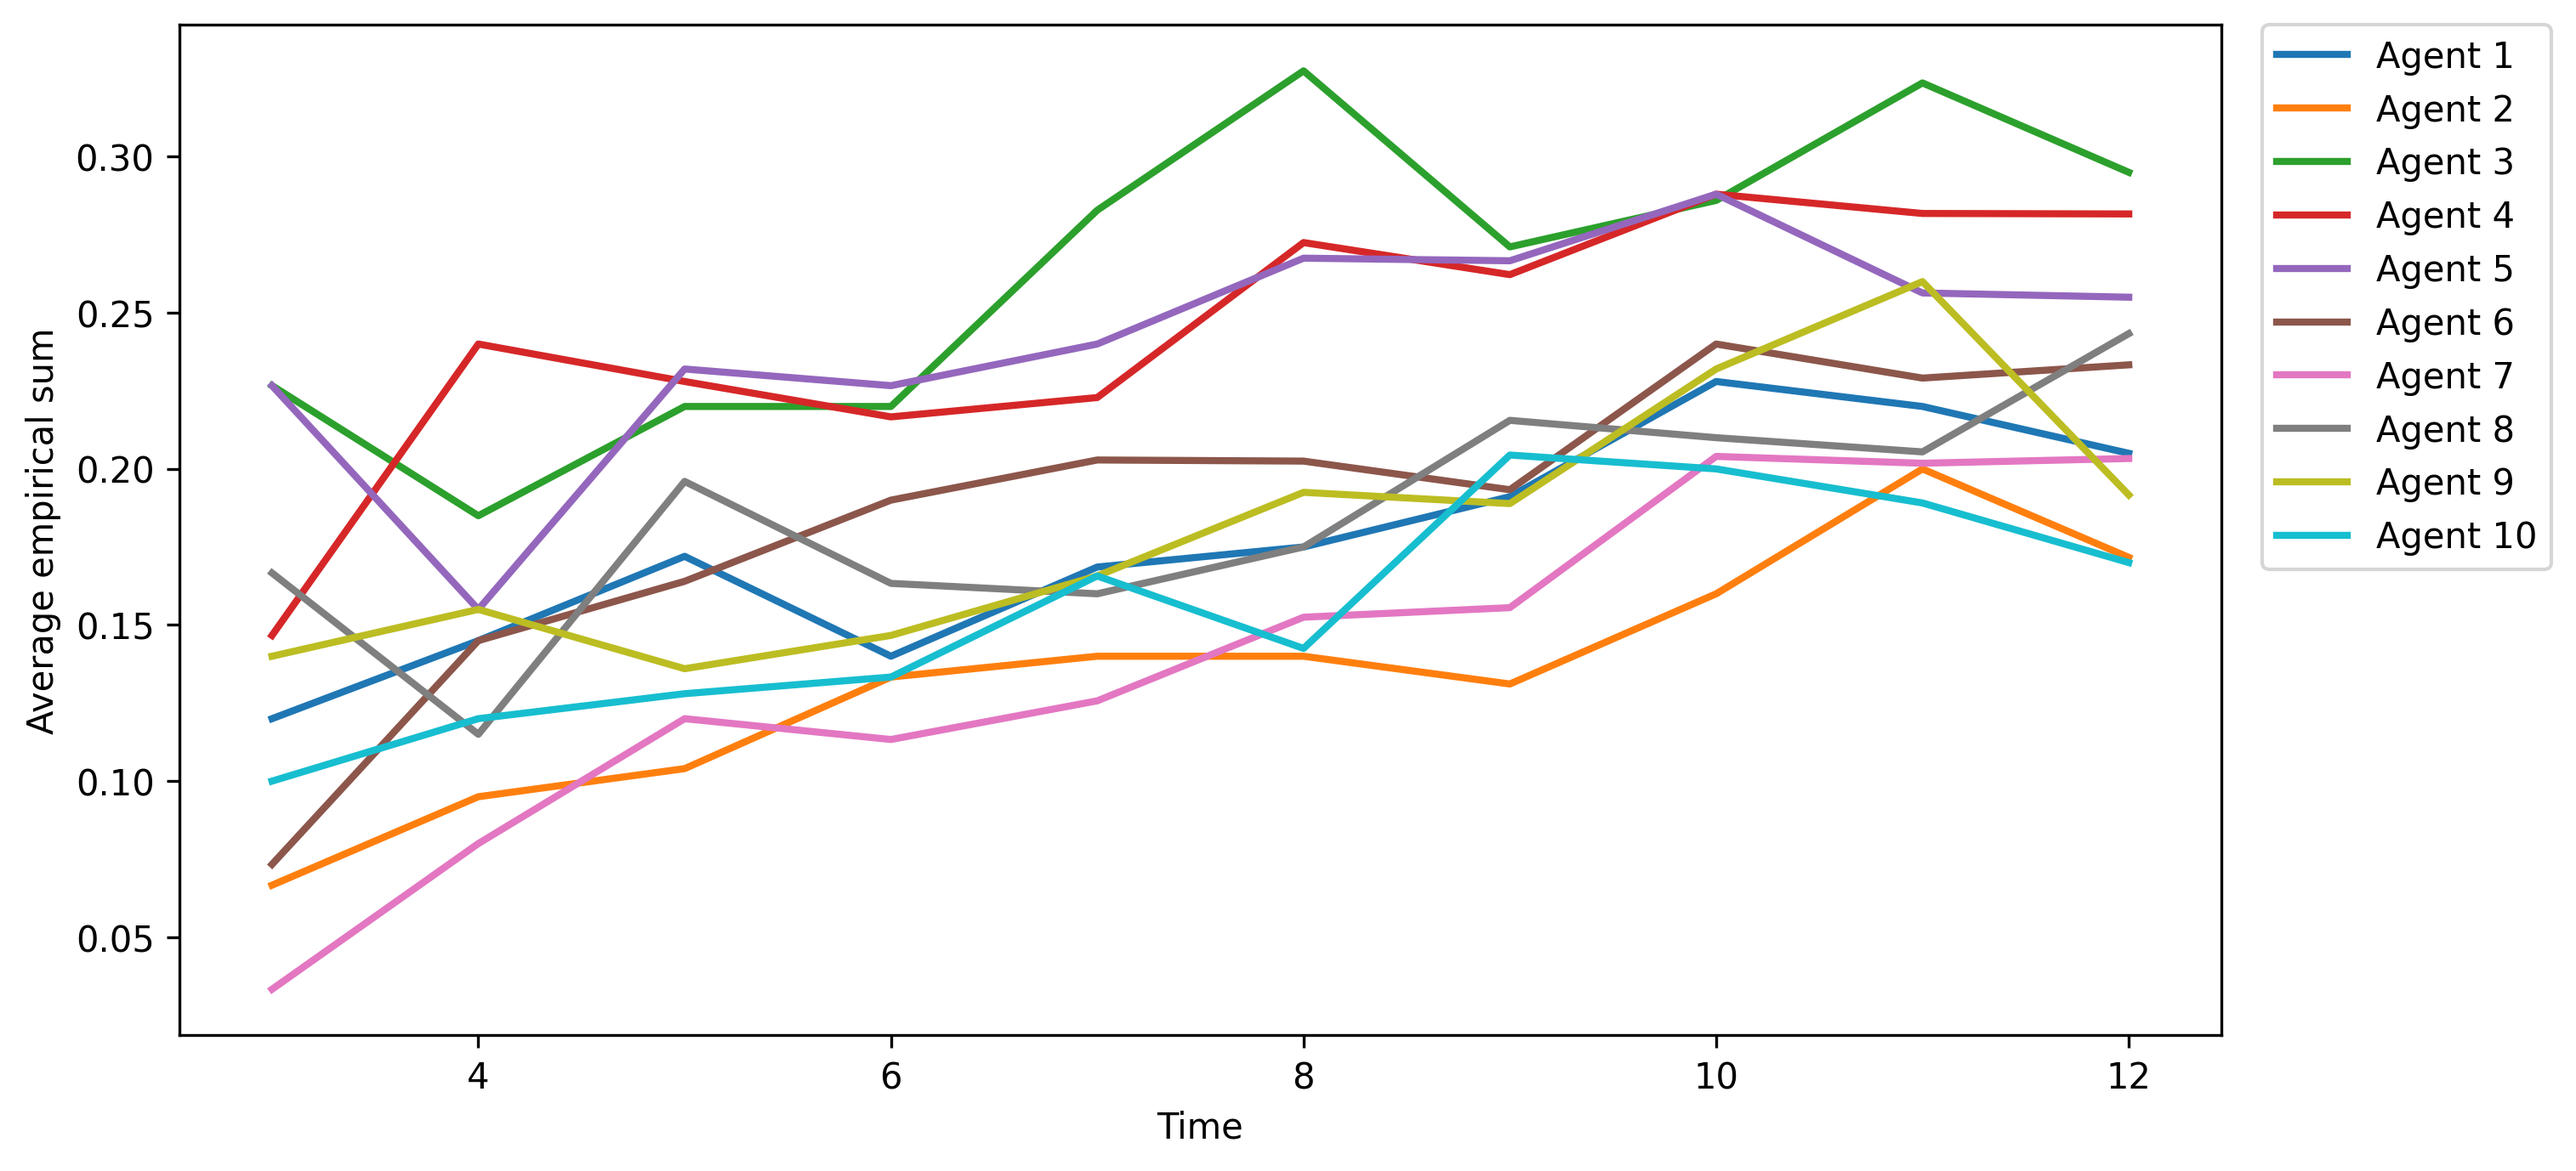
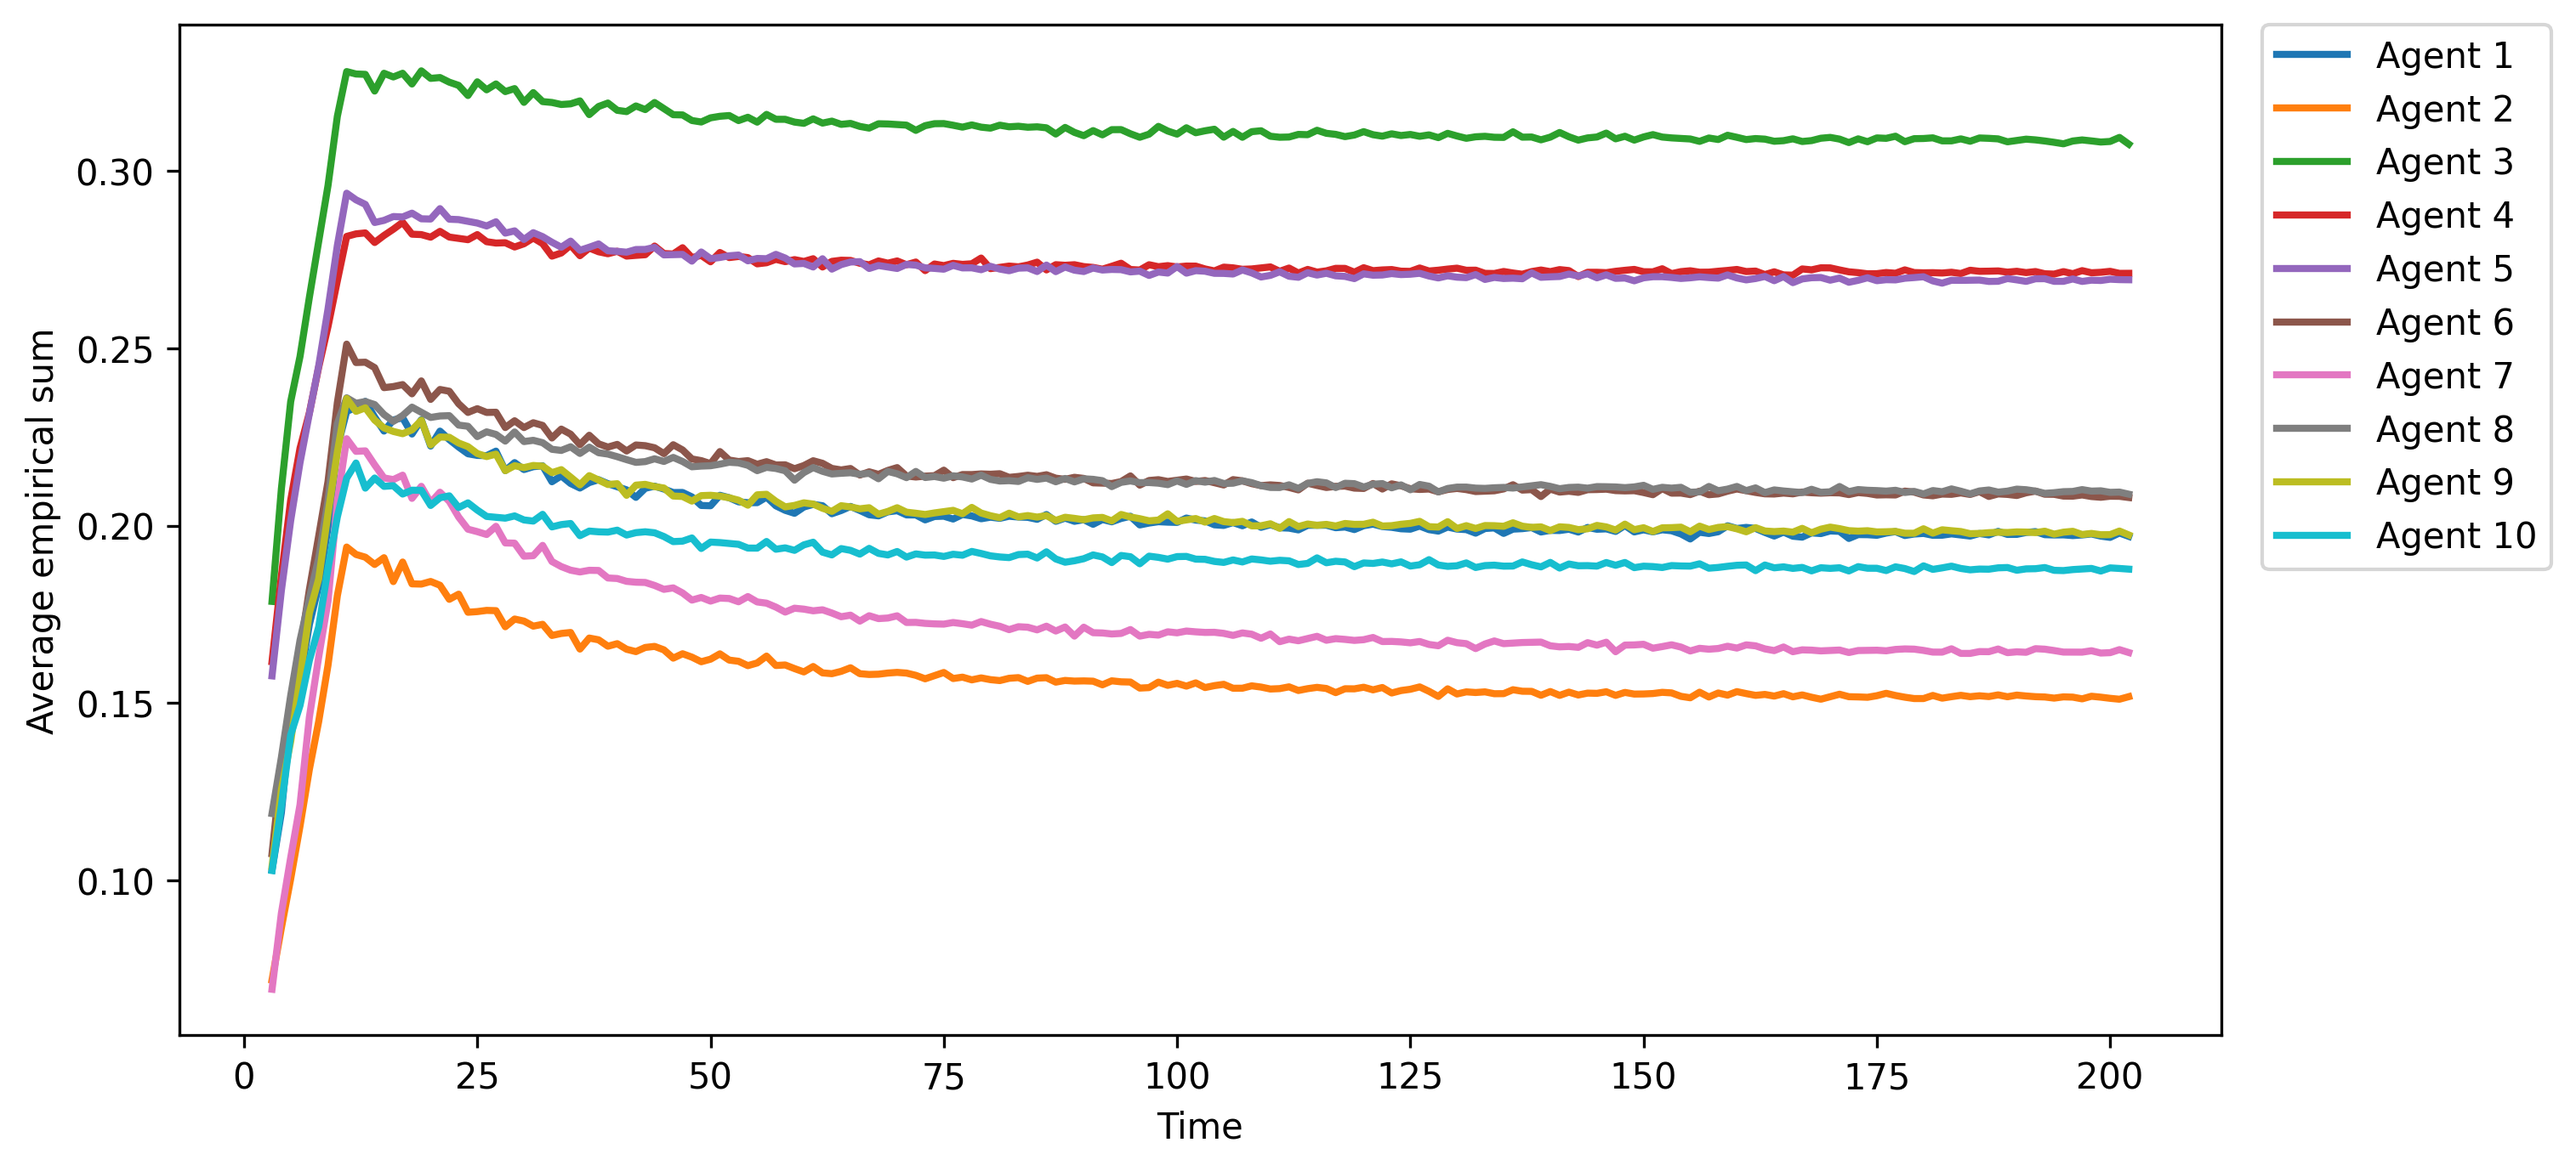
added bot simulation

diff --git a/src/models/od_model.py b/src/models/od_model.py
@@ -259,3 +259,149 @@ def simulate_trajectory(
 
     return X_history, Z_history
 
+def simulate_trajectory_bot(
+    N,
+    horizon,
+    T,
+    L,
+    A,
+    c1,
+    c2,
+    memory_sets,
+    beta=0.20,
+    eta=0.8,
+    rng=None,
+):
+    """
+    Simulate one trajectory of the opinion dynamics model.
+
+    Parameters
+    ----------
+    N : int
+        Number of nodes.
+
+    horizon : int
+        Final simulation time.
+
+    T : int
+        Time at which memory activates.
+
+    L : int
+        Memory depth.
+
+    A : ndarray
+        Row-stochastic interaction matrix.
+
+    c1 : ndarray
+        Drift vector.
+
+    c2 : ndarray
+        Scaling vector.
+
+    memory_sets : list
+        List of memory indicator matrices.
+
+    beta : bot weight
+    eta  : bot strength
+
+    rng : numpy random generator
+        Random number generator.
+
+    Returns
+    -------
+    X_history : list
+        bias matrices over time.
+
+    Z_history : list
+        expressed opinion vectors over time.
+    """
+
+    if rng is None:
+        rng = np.random.default_rng()
+
+    # ==================================================
+    # Initial state
+    # ==================================================
+
+    X_t = np.tile(c1.reshape(N, 1), (1, N))
+
+    Z_t = np.zeros(N)
+
+    X_history = [X_t.copy()]
+    Z_history = [Z_t.copy()]
+
+    # ==================================================
+    # Time evolution
+    # ==================================================
+
+    for t in range(1, horizon):
+
+        # ----------------------------------------------
+        # Generate activation vector
+        # ----------------------------------------------
+
+        interaction = A @ X_t
+
+        activation_prob = interaction[:, 0]
+
+        activation_prob = (
+            (1 - beta) * interaction[:, 0]
+            + beta * eta
+        )
+
+        activation_prob = np.clip(
+            activation_prob,
+            0.0,
+            1.0
+        )
+
+        random_vals = rng.random(N)
+
+        Z_next = (random_vals < activation_prob).astype(float)
+
+        # ----------------------------------------------
+        # Pre-memory dynamics
+        # ----------------------------------------------
+
+        if t < T:
+
+            X_next = X_t + np.outer(c2, Z_next)
+
+        # ----------------------------------------------
+        # Memory dynamics
+        # ----------------------------------------------
+
+        else:
+
+            X_next = np.zeros((N, N))
+
+            for i in range(N):
+
+                for j in range(N):
+
+                    memory_sum = 0.0
+
+                    for ell in range(L):
+
+                        memory_sum += (
+                            memory_sets[ell][i, j]
+                            * Z_history[-(ell + 1)][j]
+                        )
+
+                    X_next[i, j] = (
+                        c1[i]
+                        + c2[i] * memory_sum
+                    )
+
+        # ----------------------------------------------
+        # Update state
+        # ----------------------------------------------
+
+        X_t = X_next
+        Z_t = Z_next
+
+        X_history.append(X_t.copy())
+        Z_history.append(Z_t.copy())
+
+    return X_history, Z_history
+

diff --git a/src/simulations/homo_bot_empirical.py b/src/simulations/homo_bot_empirical.py
@@ -7,26 +7,25 @@ from src.plotting.network_plot import *
 
 N = 10
 L = 10
-M = 3
+M = 5
 T = 10
-Time = 200
+Time = 20
 
 # ==================================================
 # Generate model ingredients
 # ==================================================
 
-c1 = np.load("data/c1_N10_M5.npy")
-c2 = np.load("data/c2_N10_M5.npy")
+c1 = 0.05 * np.ones(N)
+c2 = 0.1 * np.ones(N)
+
+A = np.load("data/A_N10_M5.npy")
 memory_sets = generate_memory_sets(
     N=N,
     L=L,
     M=M
 )
 
-# ==================================================
-# Draw network
-# ==================================================
-A = np.load("data/A_N10_M5.npy")
+
 # ==================================================
 # Simulate empirical sums for all agents
 # ==================================================
@@ -39,9 +38,9 @@ for horizon in range(3, Time + 3):
 
     monte_carlo_vals = []
 
-    for sim in range(5000):
+    for sim in range(100):
 
-        X_history, Z_history = simulate_trajectory(
+        X_history, Z_history = simulate_trajectory_bot(
             N=N,
             horizon=horizon,
             T=T,
@@ -50,6 +49,8 @@ for horizon in range(3, Time + 3):
             c1=c1,
             c2=c2,
             memory_sets=memory_sets,
+            beta =0.20,
+            eta = 0.8,
             rng=rng,
         )
 
@@ -65,7 +66,7 @@ for horizon in range(3, Time + 3):
 )
 #save the empirical sum data
 np.save(
-    "data/all_means_N10_M3.npy",all_means
+    "data/all_means_N10_M5_homo_bot.npy",all_means
 )
 
 # ==================================================
@@ -85,6 +86,14 @@ for node in range(N):
         label=f"Agent {node+1}"
     )
 
+plt.axhline(
+    y=0.1,
+    color="black",
+    linestyle="--",
+    linewidth=2,
+    label=r"$p^{(*)}=0.1$"
+)
+
 plt.legend(
     bbox_to_anchor=(1.02, 1),
     loc="upper left",
@@ -93,12 +102,16 @@ plt.legend(
 plt.tight_layout()
 
 plt.xlabel("Time")
-plt.ylabel("Average empirical sum")
+plt.ylabel("Average ergodic sum")
+plt.title(
+    rf"Average ergodic sum: $\beta = 0.2,\ \eta_B = 0.8$"
+)
 
 plt.savefig(
-    "figures/all_means_N10_M3.png",
+    "figures/all_means_N10_M5_homo_bot.png",
     dpi=300,
     bbox_inches="tight"
 )
+
 
 plt.show()
